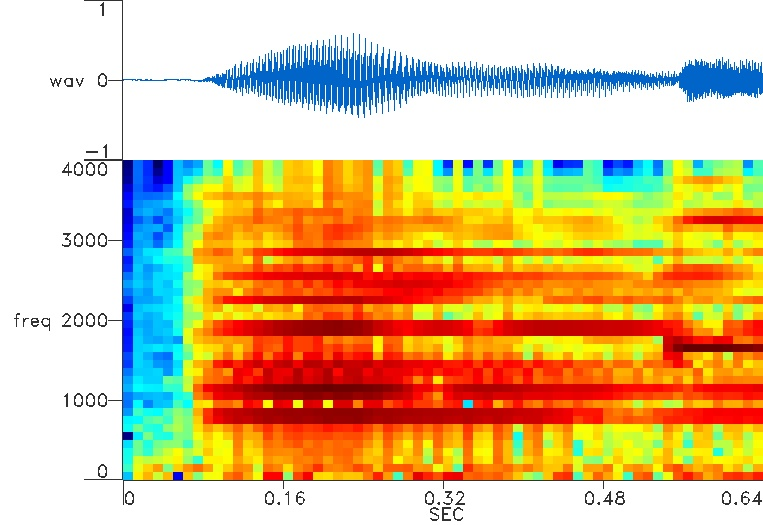
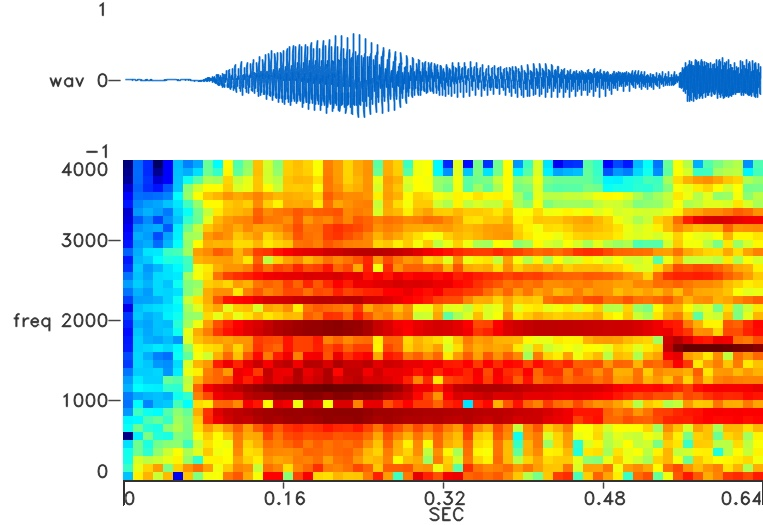
line_aa

diff --git a/src/image/draw.cpp b/src/image/draw.cpp
@@ -37,7 +37,7 @@ void Draw::audio_wav(
         int x1 = map_w(i + 1);
         int y0 = map_h(signal[i]);
         int y1 = map_h(signal[i + 1]);
-        cv::line(img, cv::Point(x0, y0), cv::Point(x1, y1), CV_RGB(0, 100, 200));
+        cv::line(img, cv::Point(x0, y0), cv::Point(x1, y1), CV_RGB(0, 100, 200), 1, cv::LINE_AA);
     }
 }
 
@@ -67,9 +67,9 @@ cv::Mat Draw::horizon_axis(
 
     int h = 0;
     cv::Mat img = create_canvas(main_w, H * 5 / 3 + 5);
-    cv::line(img, cv::Point(0,          h), cv::Point(main_w,       h),     CV_RGB(50, 50, 50), 1);
-    cv::line(img, cv::Point(0,          h), cv::Point(0,            h + H), CV_RGB(50, 50, 50), 1);
-    cv::line(img, cv::Point(main_w,     h), cv::Point(main_w,       h + H), CV_RGB(50, 50, 50), 1);
+    cv::line(img, cv::Point(0,          h), cv::Point(main_w,       h),     CV_RGB(50, 50, 50), 2, cv::LINE_AA);
+    cv::line(img, cv::Point(0,          h), cv::Point(0,            h + H), CV_RGB(50, 50, 50), 2, cv::LINE_AA);
+    cv::line(img, cv::Point(main_w,     h), cv::Point(main_w,       h + H), CV_RGB(50, 50, 50), 2, cv::LINE_AA);
     
     auto num_to_str = [](double x) -> std::string {
         std::string str = std::to_string(x);
@@ -85,20 +85,20 @@ cv::Mat Draw::horizon_axis(
         int label_x = (double)main_w * i / (num_label - 1);
         double label_v = (double)(minmax.end - minmax.start) * i / (num_label - 1) + minmax.start;
         auto str = num_to_str(label_v);
-        cv::line(img, cv::Point(label_x, h), cv::Point(label_x, h + H / 3), CV_RGB(50, 50, 50), 1);
+        cv::line(img, cv::Point(label_x, h), cv::Point(label_x, h + H / 3), CV_RGB(50, 50, 50), 1, cv::LINE_AA);
         cv::putText(
             img, str, cv::Point(label_x - str.length() * W / 2, h + H),
-            cv::FONT_HERSHEY_DUPLEX, Scale, CV_RGB(50, 50, 50));
+            cv::FONT_HERSHEY_DUPLEX, Scale, CV_RGB(50, 50, 50), 1, cv::LINE_AA);
     }
     {
         auto str = num_to_str(minmax.start);
         cv::putText(
             img, str, cv::Point(0, h + H),
-            cv::FONT_HERSHEY_DUPLEX, Scale, CV_RGB(50, 50, 50));
+            cv::FONT_HERSHEY_DUPLEX, Scale, CV_RGB(50, 50, 50), 1, cv::LINE_AA);
         str = num_to_str(minmax.end);
         cv::putText(
             img, str, cv::Point(main_w - str.length() * W - 3, h + H),
-            cv::FONT_HERSHEY_DUPLEX, Scale, CV_RGB(50, 50, 50));
+            cv::FONT_HERSHEY_DUPLEX, Scale, CV_RGB(50, 50, 50), 1, cv::LINE_AA);
     }
     /* axis unit */
     if (unit.length()) {
@@ -106,7 +106,7 @@ cv::Mat Draw::horizon_axis(
         int y = h + H * 5 / 3;
         cv::putText(
             img, unit, cv::Point(x, y),
-            cv::FONT_HERSHEY_DUPLEX, Scale, CV_RGB(50, 50, 50));
+            cv::FONT_HERSHEY_DUPLEX, Scale, CV_RGB(50, 50, 50), 1, cv::LINE_AA);
     }
     return img;
 }
@@ -149,36 +149,36 @@ cv::Mat Draw::vertical_axis(
     int w = max_len * W + gap;
     cv::Mat img = create_canvas(w, main_h);
 
-    cv::line(img, cv::Point(w - 1, main_h - 1), cv::Point(w - 1,               0),          CV_RGB(50, 50, 50), 1);
-    cv::line(img, cv::Point(w - 1, main_h - 1), cv::Point(w - W * 2 - gap,     main_h - 1), CV_RGB(50, 50, 50), 1);
-    cv::line(img, cv::Point(w - 1, 0),          cv::Point(w - W * 2 - gap,     0),          CV_RGB(50, 50, 50), 1);
+    cv::line(img, cv::Point(w - 1, main_h - 1), cv::Point(w - 1,               0),          CV_RGB(50, 50, 50), 1, cv::LINE_AA);
+    cv::line(img, cv::Point(w - 1, main_h - 1), cv::Point(w - W * 2 - gap,     main_h - 1), CV_RGB(50, 50, 50), 1, cv::LINE_AA);
+    cv::line(img, cv::Point(w - 1, 0),          cv::Point(w - W * 2 - gap,     0),          CV_RGB(50, 50, 50), 1, cv::LINE_AA);
     
     {
         auto str = num_to_str(minmax.start);
         cv::putText(
             img, str, cv::Point(w - str.length() * W - gap, main_h - 3),
-            cv::FONT_HERSHEY_DUPLEX, Scale, CV_RGB(50, 50, 50));
+            cv::FONT_HERSHEY_DUPLEX, Scale, CV_RGB(50, 50, 50), 1, cv::LINE_AA);
         str = num_to_str(minmax.end);
         cv::putText(
             img, str, cv::Point(w - str.length() * W - gap, H + 3),
-            cv::FONT_HERSHEY_DUPLEX, Scale, CV_RGB(50, 50, 50));
+            cv::FONT_HERSHEY_DUPLEX, Scale, CV_RGB(50, 50, 50), 1, cv::LINE_AA);
     }
     for (int i = 1; i + 1 < num_label; ++i)
     {
         auto str = labels[i];
         int x = w - gap - W * str.length();
         int y = label_y[i];
-        cv::line(img, cv::Point(w, y), cv::Point(w - gap, y), CV_RGB(50, 50, 50), 1);
+        cv::line(img, cv::Point(w, y), cv::Point(w - gap, y), CV_RGB(50, 50, 50), 1, cv::LINE_AA);
         cv::putText(
             img, str, cv::Point(x, y + H / 2),
-            cv::FONT_HERSHEY_DUPLEX, Scale, CV_RGB(50, 50, 50));
+            cv::FONT_HERSHEY_DUPLEX, Scale, CV_RGB(50, 50, 50), 1, cv::LINE_AA);
     }
     if (unit.length()) {
         int x = 1 * W;
         int y = main_h / 2;
         cv::putText(
             img, unit, cv::Point(x, y + H / 2),
-            cv::FONT_HERSHEY_DUPLEX, Scale, CV_RGB(50, 50, 50));
+            cv::FONT_HERSHEY_DUPLEX, Scale, CV_RGB(50, 50, 50), 1, cv::LINE_AA);
     }
 
     return img;
